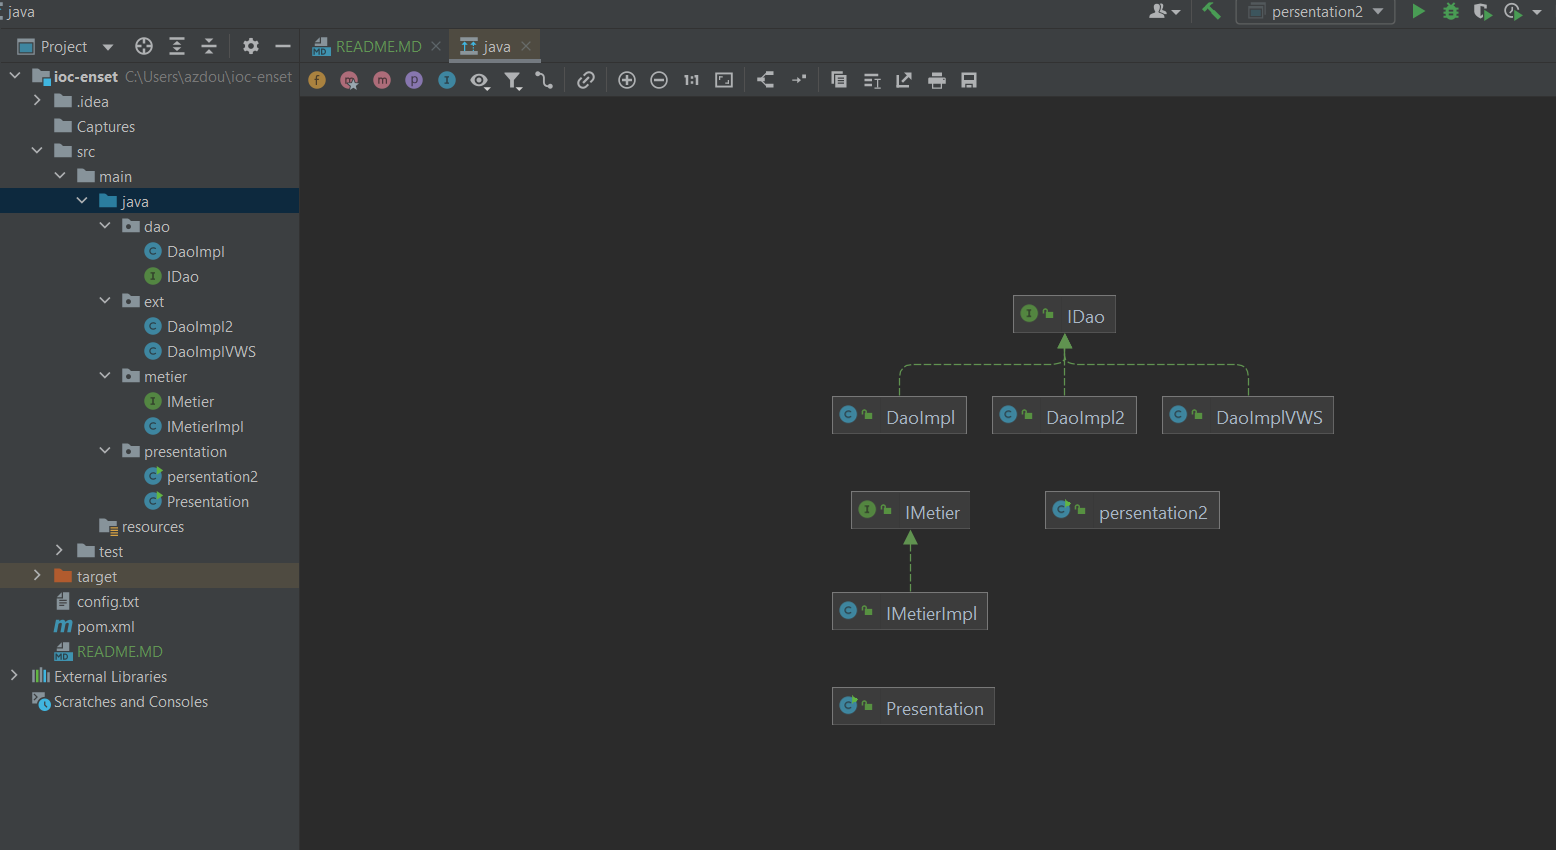
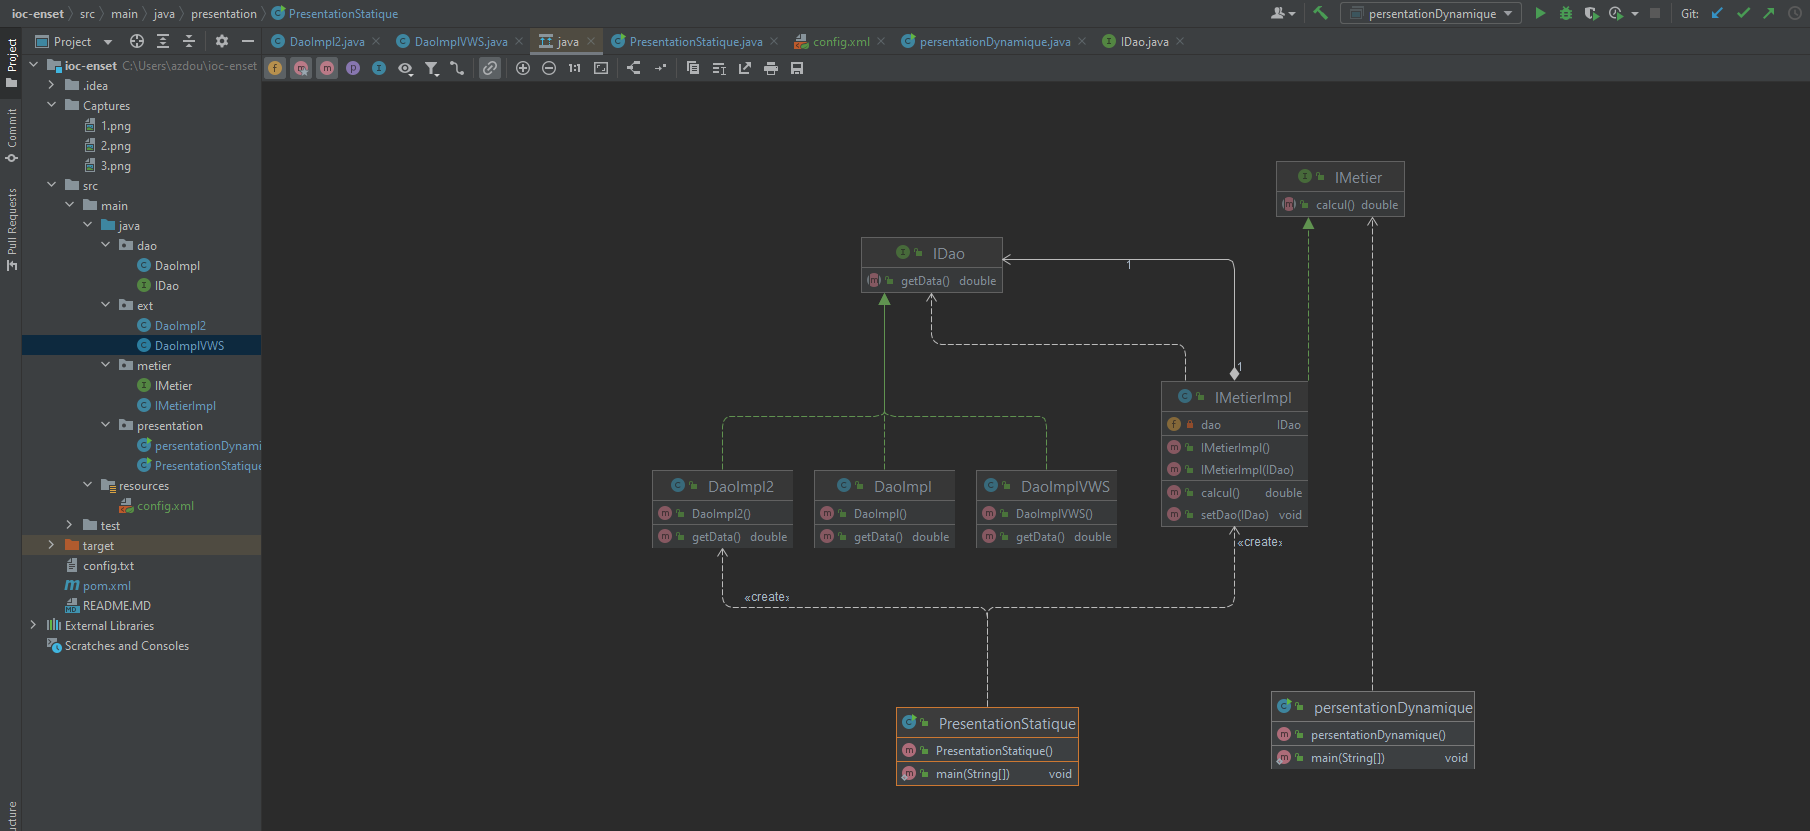
V3

diff --git a/src/main/java/presentation/persentationDynamique.java b/src/main/java/presentation/persentationDynamique.java
@@ -1,0 +1,37 @@
+package presentation;
+
+import dao.IDao;
+import metier.IMetier;
+import org.springframework.context.ApplicationContext;
+import org.springframework.context.support.ClassPathXmlApplicationContext;
+
+import java.io.File;
+import java.lang.reflect.Method;
+import java.util.Scanner;
+
+public class persentationDynamique {
+    public static void main(String[] args) throws Exception{
+//        Scanner scanner = new Scanner(new File("config.txt"));
+//
+//        String daoClassName = scanner.nextLine();
+//        Class cDao = Class.forName(daoClassName);
+//        IDao dao = (IDao) cDao.getConstructor().newInstance();
+//      //  System.out.println(dao.getData());
+//
+//        String metierClassName = scanner.nextLine();
+//        Class cmetier = Class.forName(metierClassName);
+//        IMetier metier = (IMetier) cmetier.getConstructor().newInstance();
+//
+//        Method setDao = cmetier.getDeclaredMethod("setDao",IDao.class);
+//        setDao.invoke(metier,dao);
+//
+//        System.out.println("Resultat => "+metier.calcul());
+
+        ApplicationContext context = new ClassPathXmlApplicationContext("config.xml");
+        IMetier metier = context.getBean(IMetier.class);
+       // IMetier metier =(IMetier) context.getBean("metier");
+        System.out.println("res = "+ metier.calcul());
+
+    }
+
+}

diff --git a/src/main/java/ext/DaoImplVWS.java b/src/main/java/ext/DaoImplVWS.java
@@ -1,12 +1,15 @@
 package ext;
 
 import dao.IDao;
+import org.springframework.stereotype.Component;
 
+@Component
 public class DaoImplVWS implements IDao {
 
     @Override
     public double getData() {
         System.out.println("Version web service ");
-        return 90;
+        double temp = 54;
+        return temp;
     }
 }

diff --git a/src/main/java/metier/IMetierImpl.java b/src/main/java/metier/IMetierImpl.java
@@ -3,8 +3,14 @@ package metier;
 import dao.IDao;
 
 public class IMetierImpl implements IMetier {
+   private IDao dao;
 
-    private IDao dao;
+    public IMetierImpl() {
+    }
+
+    public IMetierImpl(IDao dao) {
+        this.dao = dao;
+    }
     @Override
     public double calcul() {
         double tmp = dao.getData();

diff --git a/src/main/java/presentation/PresentationStatique.java b/src/main/java/presentation/PresentationStatique.java
@@ -3,7 +3,7 @@ package presentation;
 import ext.DaoImpl2;
 import metier.IMetierImpl;
 
-public class Presentation {
+public class PresentationStatique {
     public static void main(String[] args) {
         DaoImpl2 dao = new DaoImpl2();
         IMetierImpl metier = new IMetierImpl();

diff --git a/src/main/java/ext/DaoImpl2.java b/src/main/java/ext/DaoImpl2.java
@@ -2,7 +2,7 @@ package ext;
 
 import dao.IDao;
 
-public class DaoImpl2 implements IDao {
+public class  DaoImpl2 implements IDao {
     @Override
     public double getData() {
         System.out.println("Version Capteurs");
